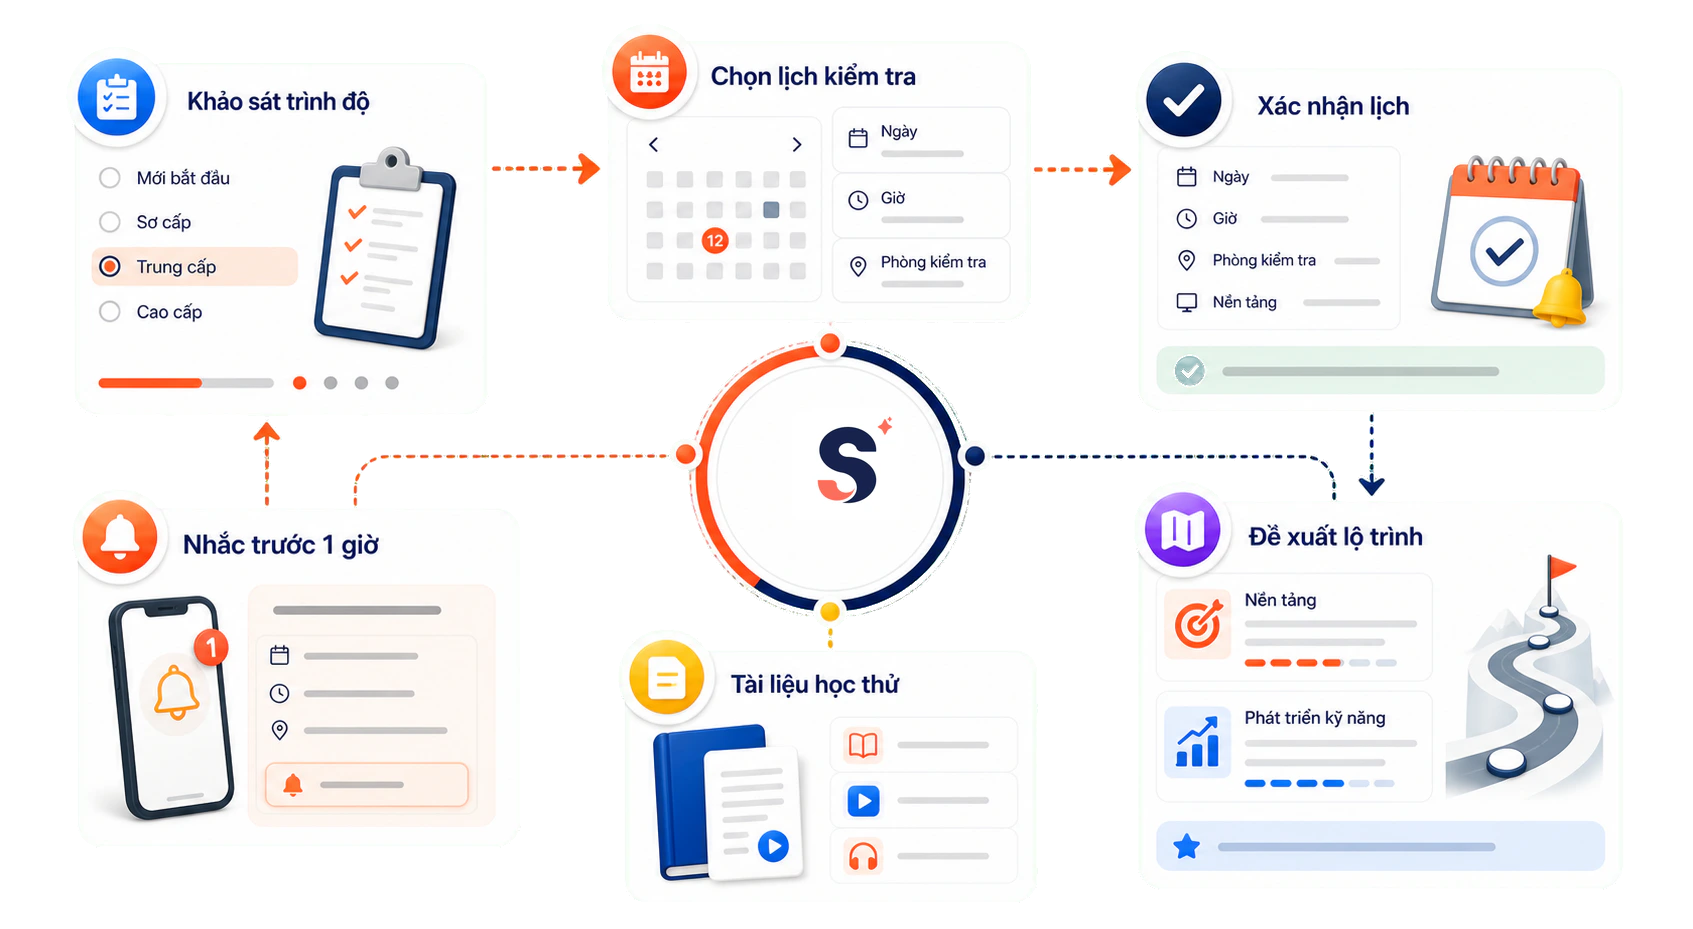
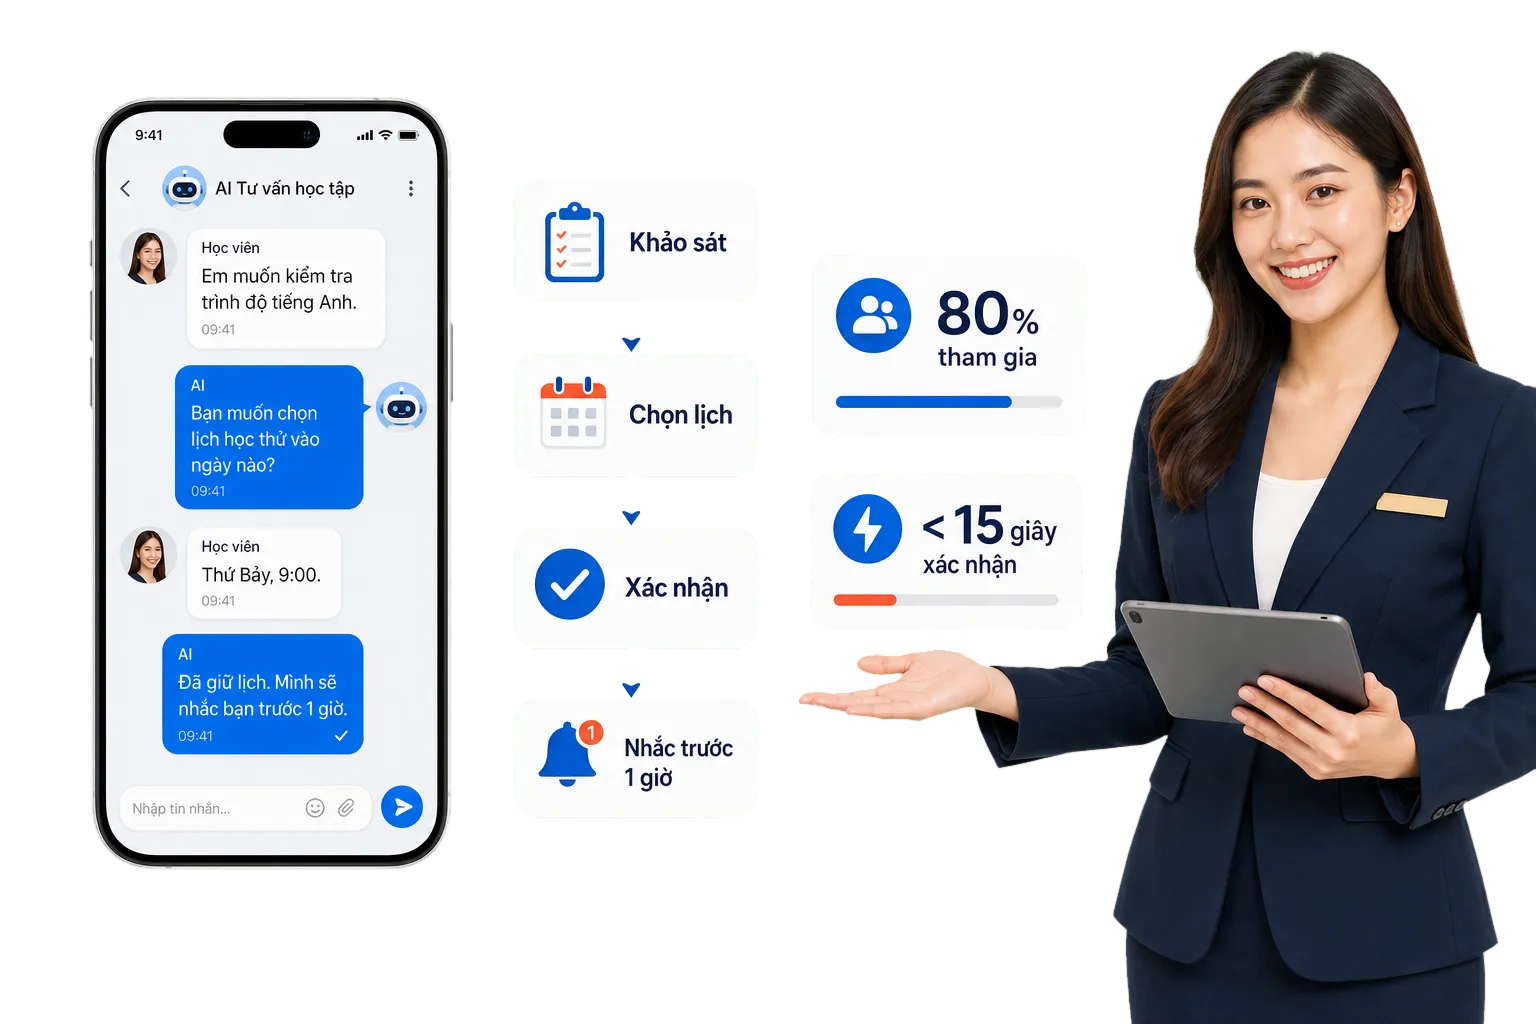
fix: refresh education solution two visual

diff --git a/education.html b/education.html
@@ -496,6 +496,24 @@
         filter: drop-shadow(0 18px 28px rgba(15, 24, 53, 0.08));
       }
 
+      /* Make the detailed Solution 02 artwork readable without changing other solution layouts. */
+      .solution-acquisition-grid:has([data-cms-img="education-img-3"]) .acq-main-card {
+        grid-column: 1 / -1;
+        grid-template-columns: minmax(280px, 0.65fr) minmax(0, 1.35fr);
+        padding: 34px 38px;
+      }
+
+      .solution-acquisition-grid:has([data-cms-img="education-img-3"]) .acq-card-right-img {
+        margin: -26px -22px -26px 0;
+      }
+
+      .solution-acquisition-grid:has([data-cms-img="education-img-3"]) > .acq-card:nth-child(2) {
+        grid-column: 1 / -1;
+        display: grid;
+        grid-template-columns: repeat(2, minmax(0, 1fr));
+        gap: 20px;
+      }
+
       .acq-sub-grid {
         display: grid;
         grid-template-columns: 1fr 1fr;
@@ -764,6 +782,21 @@
         }
 
         .acq-main-card {
+          grid-template-columns: 1fr;
+        }
+
+        .solution-acquisition-grid:has([data-cms-img="education-img-3"]) .acq-main-card {
+          grid-column: auto;
+          grid-template-columns: 1fr;
+          padding: 28px;
+        }
+
+        .solution-acquisition-grid:has([data-cms-img="education-img-3"]) .acq-card-right-img {
+          margin: 18px -20px -8px;
+        }
+
+        .solution-acquisition-grid:has([data-cms-img="education-img-3"]) > .acq-card:nth-child(2) {
+          grid-column: auto;
           grid-template-columns: 1fr;
         }
 